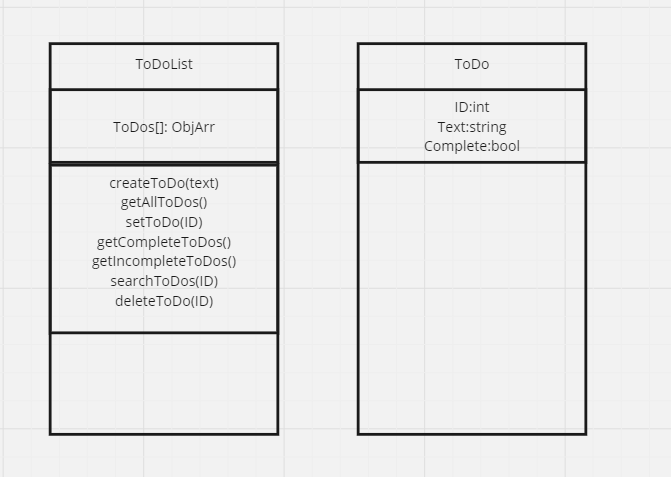
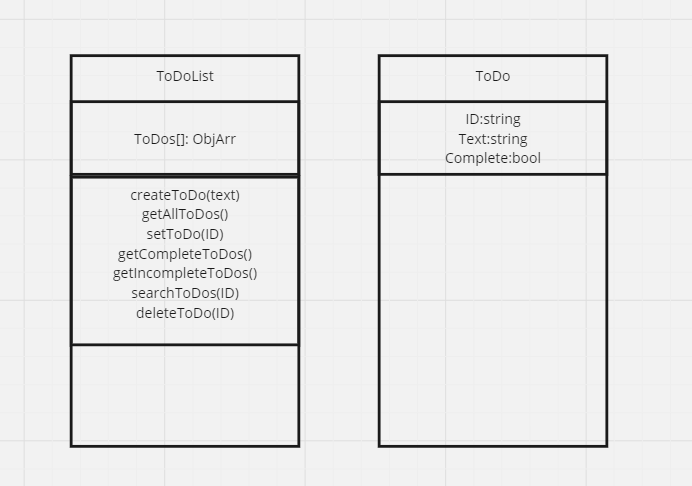
Implement createToDo function

Changed region(s): [[0.0596, 0.0881, 0.4471, 0.9392], [0.5067, 0.0881, 0.8942, 0.9392]]

diff --git a/spec/todolist.spec.js b/spec/todolist.spec.js
@@ -1,16 +1,16 @@
 import ToDoList from '../src/todolist.js'
 
 describe('todolist', () => {
-  it("exists", () => {
+  it('exists', () => {
     const toDoList = new ToDoList()
 
     expect(toDoList.toDos.length).toBe(0)
   })
 
-  it("creates toDos and adds to list", () => {
+  it('creates toDos and adds to list', () => {
     const toDoList = new ToDoList()
     toDoList.createToDo('Do This')
 
-    expect(toDoList.toDos[1].text).toBe('Do this')
+    expect(toDoList.toDos[0].text).toBe('Do This')
   })
 })

diff --git a/src/todolist.js b/src/todolist.js
@@ -1,6 +1,19 @@
+import crypto from 'crypto'
+
 class ToDoList {
   constructor() {
     this.toDos = []
+  }
+
+  createToDo(text) {
+    const toDo = {
+      id: crypto.randomUUID(),
+      text,
+      complete: false
+    }
+
+    this.toDos.push(toDo)
+    return toDo
   }
 }
 
